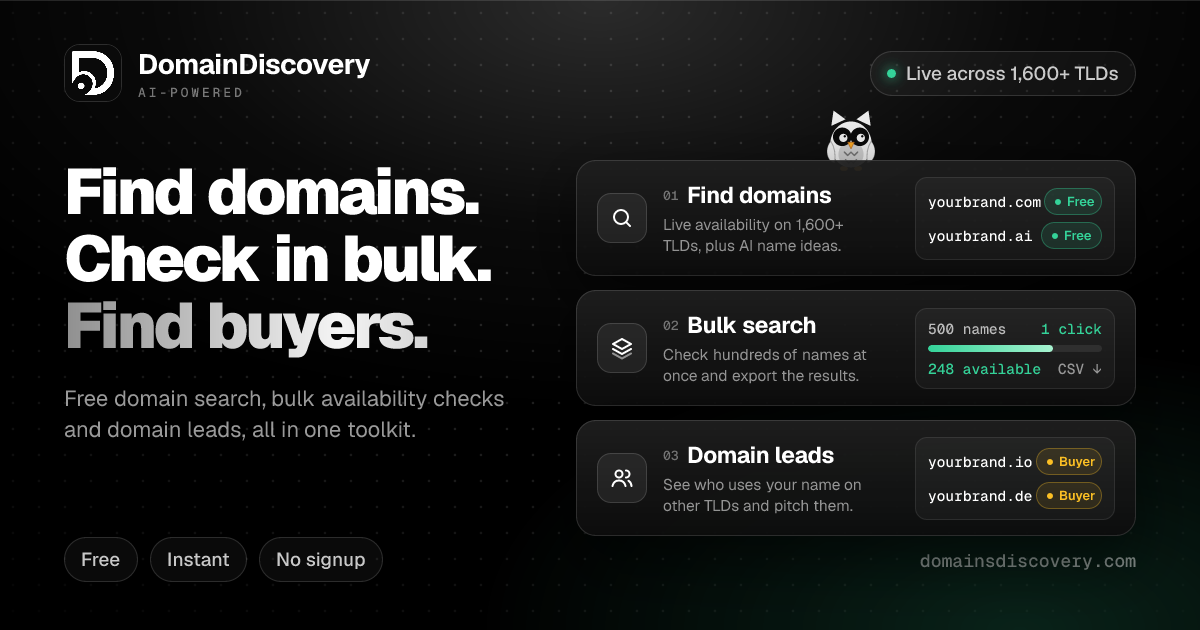
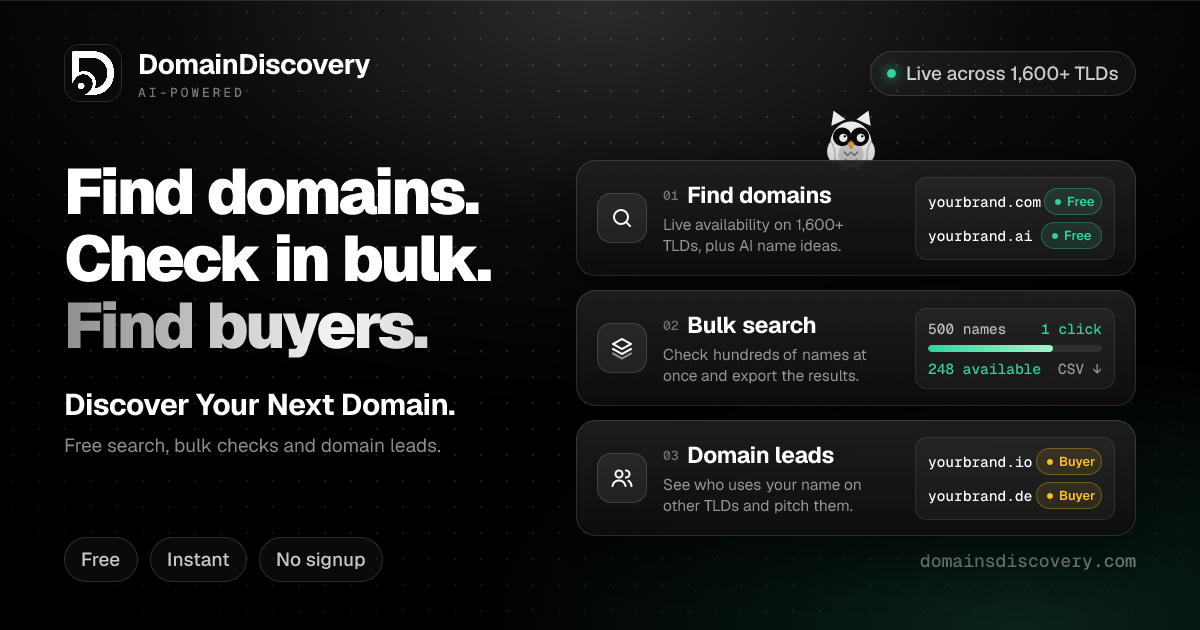
Tagline: Discover Your Next Domain.

Changed region(s): [[0.0308, 0.6032, 0.4317, 0.7238]]

diff --git a/src/lib/i18n/messages/bn.ts b/src/lib/i18n/messages/bn.ts
@@ -43,7 +43,7 @@ export const bn: Messages = {
     whois: 'WHOIS', geo: 'জিও ডোমেইন', compare: 'দাম তুলনা', keyword: 'কীওয়ার্ড',
     guides: 'সব গাইড', faq: 'প্রশ্ন', what: 'DD কী?', forAi: 'AI-এর জন্য',
     blog: 'ব্লগ', contact: 'যোগাযোগ', privacy: 'গোপনীয়তা', terms: 'শর্তাবলি', cookies: 'কুকি', disclaimer: 'দাবিত্যাগ',
-    tagline: 'বিনামূল্যে ডোমেইন সার্চ · লাইভ উপলব্ধতা', builtBy: 'তৈরি করেছেন', onX: 'X-এ',
+    tagline: 'আপনার পরবর্তী ডোমেইন খুঁজে নিন।', builtBy: 'তৈরি করেছেন', onX: 'X-এ',
   },
   hero: {
     live: 'লাইভ', liveRest: '১,৬০০-এর বেশি TLD-তে', h1Mobile: 'আপনার ডোমেইন খুঁজুন', h1Desktop: 'ডোমেইন নাম অনুসন্ধান', sub: 'কয়েক সেকেন্ডে উপলব্ধতা যাচাই করুন',

diff --git a/src/lib/seoSiteFacts.ts b/src/lib/seoSiteFacts.ts
@@ -35,7 +35,7 @@ export const SITE_BRAND = {
   alternateNames: ['Domain Discovery', 'Domains Discovery'] as const,
   domain: 'www.domainsdiscovery.com',
   apexDomain: 'domainsdiscovery.com',
-  tagline: 'Free domain name search and domain toolkit',
+  tagline: 'Discover Your Next Domain.',
   /** Short meta-style description (~40 words) */
   description:
     'DomainDiscovery (also searched as Domain Discovery or Domains Discovery) is a free domain name search and toolkit: live availability across 1,600+ TLDs, AI domain generator, bulk domain checker, geo domain generator for local SEO, WHOIS/RDAP lookup, domain extension browser, registrar price comparison. Shortlists stay on your device. Registration checkout happens at a third-party registrar.',
@@ -282,6 +282,7 @@ export function getOrganizationJsonLd() {
     '@id': `${base}/#organization`,
     name: SITE_BRAND.name,
     alternateName: [...SITE_BRAND.alternateNames],
+    slogan: SITE_BRAND.tagline,
     url: base,
     // Solid plate PNG (512) matches DomainDiscovery mark for Knowledge Panel / SERP
     logo: {

diff --git a/src/lib/i18n/messages/hi.ts b/src/lib/i18n/messages/hi.ts
@@ -43,7 +43,7 @@ export const hi: Messages = {
     whois: 'WHOIS', geo: 'जियो डोमेन', compare: 'कीमत', keyword: 'कीवर्ड',
     guides: 'सभी गाइड', faq: 'प्रश्न', what: 'DD क्या है?', forAi: 'AI के लिए',
     blog: 'ब्लॉग', contact: 'संपर्क', privacy: 'गोपनीयता', terms: 'शर्तें', cookies: 'कुकीज़', disclaimer: 'अस्वीकरण',
-    tagline: 'मुफ़्त डोमेन खोज · लाइव उपलब्धता', builtBy: 'बनाया', onX: 'X पर',
+    tagline: 'अपना अगला डोमेन खोजें।', builtBy: 'बनाया', onX: 'X पर',
   },
   hero: {
     live: 'लाइव', liveRest: '1,600+ TLD पर', h1Mobile: 'अपना डोमेन खोजें', h1Desktop: 'डोमेन नाम खोज', sub: 'सेकंडों में उपलब्धता देखें',

diff --git a/src/lib/i18n/messages/ru.ts b/src/lib/i18n/messages/ru.ts
@@ -43,7 +43,7 @@ export const ru: Messages = {
     whois: 'WHOIS', geo: 'Геодомены', compare: 'Сравнить цены', keyword: 'Ключевые слова',
     guides: 'Все гайды', faq: 'Вопросы', what: 'Что такое DD?', forAi: 'Для ИИ',
     blog: 'Блог', contact: 'Контакт', privacy: 'Приватность', terms: 'Условия', cookies: 'Cookie', disclaimer: 'Отказ',
-    tagline: 'Бесплатный поиск доменов · Проверка в реальном времени', builtBy: 'Сделано', onX: 'в X',
+    tagline: 'Найдите свой следующий домен.', builtBy: 'Сделано', onX: 'в X',
   },
   hero: {
     live: 'В эфире', liveRest: 'в более чем 1 600 TLD', h1Mobile: 'Найдите свой домен', h1Desktop: 'Поиск доменных имён', sub: 'Проверьте доступность за секунды',

diff --git a/src/lib/i18n/messages/ar.ts b/src/lib/i18n/messages/ar.ts
@@ -85,7 +85,7 @@ export const ar: Messages = {
     whois: 'WHOIS', geo: 'نطاقات جغرافية', compare: 'مقارنة الأسعار', keyword: 'كلمات مفتاحية',
     guides: 'كل الأدلة', faq: 'الأسئلة', what: 'ما هو DD؟', forAi: 'للذكاء الاصطناعي',
     blog: 'المدونة', contact: 'اتصل بنا', privacy: 'الخصوصية', terms: 'الشروط', cookies: 'ملفات الارتباط', disclaimer: 'إخلاء المسؤولية',
-    tagline: 'بحث مجاني عن النطاقات · توفر مباشر', builtBy: 'من إنشاء', onX: 'على X',
+    tagline: 'اكتشف نطاقك التالي.', builtBy: 'من إنشاء', onX: 'على X',
   },
   hero: {
     live: 'مباشر', liveRest: 'عبر أكثر من 1600 TLD', h1Mobile: 'اعثر على نطاقك', h1Desktop: 'البحث عن اسم نطاق', sub: 'تحقق من التوفر خلال ثوانٍ',

diff --git a/src/lib/i18n/messages/ur.ts b/src/lib/i18n/messages/ur.ts
@@ -85,7 +85,7 @@ export const ur: Messages = {
     whois: 'WHOIS', geo: 'جیو ڈومین', compare: 'قیمت', keyword: 'کی ورڈ',
     guides: 'تمام گائیڈ', faq: 'سوالات', what: 'DD کیا ہے؟', forAi: 'AI کے لیے',
     blog: 'بلاگ', contact: 'رابطہ', privacy: 'رازداری', terms: 'شرائط', cookies: 'کوکیز', disclaimer: 'اعلان',
-    tagline: 'مفت ڈومین تلاش · براہِ راست دستیابی', builtBy: 'بنایا', onX: 'X پر',
+    tagline: 'اپنا اگلا ڈومین دریافت کریں۔', builtBy: 'بنایا', onX: 'X پر',
   },
   hero: {
     live: 'لائیو', liveRest: '1,600 سے زیادہ TLD پر', h1Mobile: 'اپنا ڈومین تلاش کریں', h1Desktop: 'ڈومین نام کی تلاش', sub: 'سیکنڈوں میں دستیابی دیکھیں',

diff --git a/src/lib/i18n/messages/pt.ts b/src/lib/i18n/messages/pt.ts
@@ -43,7 +43,7 @@ export const pt: Messages = {
     whois: 'WHOIS', geo: 'Domínios geo', compare: 'Comparar preços', keyword: 'Palavras-chave',
     guides: 'Todos os guias', faq: 'Perguntas', what: 'O que é a DD?', forAi: 'Para IA',
     blog: 'Blogue', contact: 'Contacto', privacy: 'Privacidade', terms: 'Termos', cookies: 'Cookies', disclaimer: 'Aviso',
-    tagline: 'Pesquisa de domínios grátis · Disponibilidade ao vivo', builtBy: 'Criado por', onX: 'no X',
+    tagline: 'Descubra o seu próximo domínio.', builtBy: 'Criado por', onX: 'no X',
   },
   hero: {
     live: 'Ao vivo', liveRest: 'em mais de 1.600 TLD', h1Mobile: 'Encontre o seu domínio', h1Desktop: 'Pesquisa de nome de domínio', sub: 'Verifique a disponibilidade em segundos',

diff --git a/src/lib/i18n/messages/es.ts b/src/lib/i18n/messages/es.ts
@@ -43,7 +43,7 @@ export const es: Messages = {
     whois: 'WHOIS', geo: 'Dominios geo', compare: 'Comparar precios', keyword: 'Palabras clave',
     guides: 'Todas las guías', faq: 'Preguntas', what: '¿Qué es DD?', forAi: 'Para IA',
     blog: 'Blog', contact: 'Contacto', privacy: 'Privacidad', terms: 'Términos', cookies: 'Cookies', disclaimer: 'Aviso',
-    tagline: 'Búsqueda de dominios gratis · Disponibilidad en vivo', builtBy: 'Creado por', onX: 'en X',
+    tagline: 'Descubre tu próximo dominio.', builtBy: 'Creado por', onX: 'en X',
   },
   hero: {
     live: 'En vivo', liveRest: 'en más de 1.600 TLD', h1Mobile: 'Encuentre su dominio', h1Desktop: 'Búsqueda de nombres de dominio', sub: 'Compruebe la disponibilidad en segundos',

diff --git a/src/lib/i18n/messages/ja.ts b/src/lib/i18n/messages/ja.ts
@@ -43,7 +43,7 @@ export const ja: Messages = {
     whois: 'WHOIS', geo: '地域ドメイン', compare: '料金比較', keyword: 'キーワード',
     guides: 'すべてのガイド', faq: 'FAQ', what: 'DDとは', forAi: 'AI向け',
     blog: 'ブログ', contact: '連絡', privacy: 'プライバシー', terms: '利用規約', cookies: 'Cookie', disclaimer: '免責',
-    tagline: '無料ドメイン検索 · リアルタイム確認', builtBy: '制作', onX: 'Xで',
+    tagline: '次のドメインを見つけよう。', builtBy: '制作', onX: 'Xで',
   },
   hero: {
     live: 'ライブ', liveRest: '1,600以上のTLD', h1Mobile: 'ドメインを見つける', h1Desktop: 'ドメイン名検索', sub: '数秒で空きを確認',

diff --git a/src/lib/i18n/messages/de.ts b/src/lib/i18n/messages/de.ts
@@ -43,7 +43,7 @@ export const de: Messages = {
     whois: 'WHOIS', geo: 'Geo-Domains', compare: 'Preise vergleichen', keyword: 'Keywords',
     guides: 'Alle Ratgeber', faq: 'FAQ', what: 'Was ist DD?', forAi: 'Für KI',
     blog: 'Blog', contact: 'Kontakt', privacy: 'Datenschutz', terms: 'Nutzungsbedingungen', cookies: 'Cookies', disclaimer: 'Hinweis',
-    tagline: 'Kostenlose Domain-Suche · Live-Verfügbarkeit', builtBy: 'Erstellt von', onX: 'auf X',
+    tagline: 'Entdecke deine nächste Domain.', builtBy: 'Erstellt von', onX: 'auf X',
   },
   hero: {
     live: 'Live', liveRest: 'über 1.600 TLDs', h1Mobile: 'Finden Sie Ihre Domain', h1Desktop: 'Domainnamen-Suche', sub: 'Verfügbarkeit in Sekunden prüfen',

diff --git a/src/lib/i18n/messages/fr.ts b/src/lib/i18n/messages/fr.ts
@@ -120,7 +120,7 @@ export const fr: Messages = {
     terms: 'Conditions',
     cookies: 'Cookies',
     disclaimer: 'Avertissement',
-    tagline: 'Recherche de domaines gratuite · Disponibilité en direct',
+    tagline: 'Découvrez votre prochain domaine.',
     builtBy: 'Créé par',
     onX: 'sur X',
   },

diff --git a/src/lib/i18n/messages/zh.ts b/src/lib/i18n/messages/zh.ts
@@ -120,7 +120,7 @@ export const zh: Messages = {
     terms: '条款',
     cookies: 'Cookie',
     disclaimer: '免责声明',
-    tagline: '免费域名查询 · 实时可用性',
+    tagline: '发现你的下一个域名。',
     builtBy: '制作者',
     onX: '的 X',
   },
